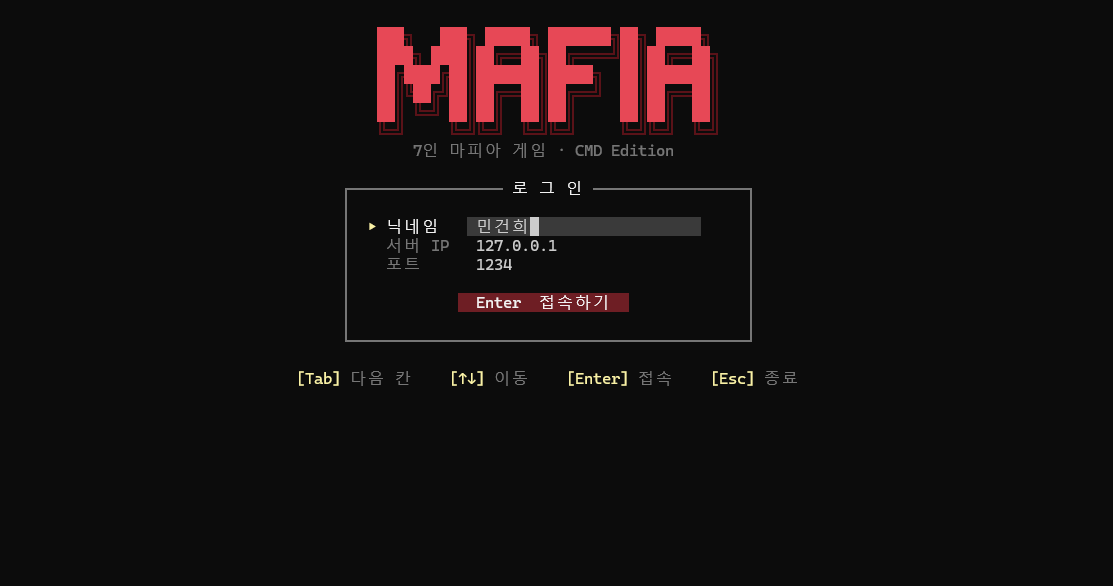
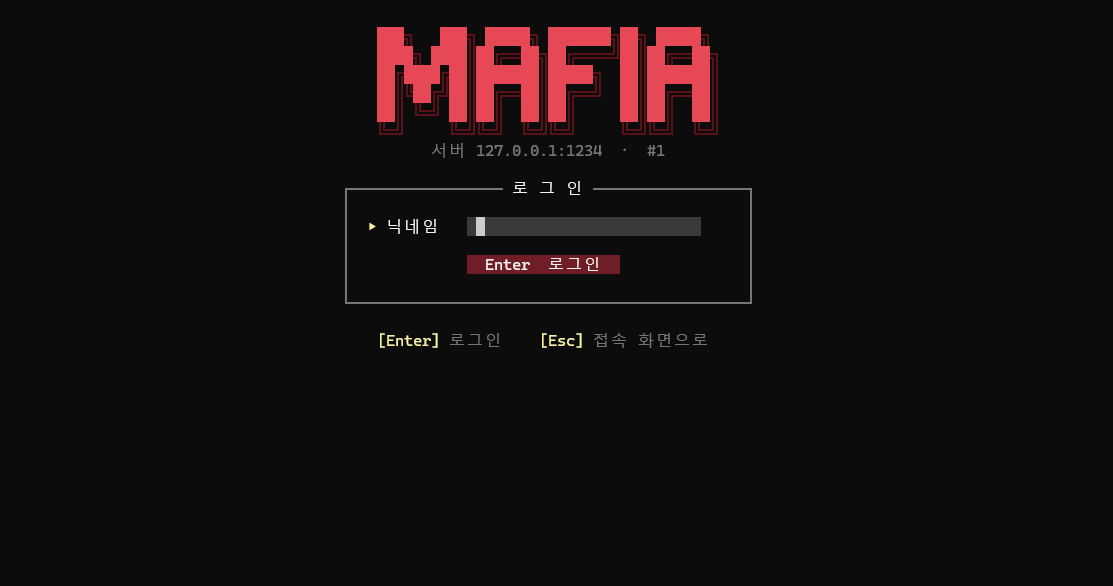
마피아 서버: 서버 접속 / 로그인 분리 화면, 로그인 실패, 접속 연출 캡처로 교체

diff --git a/index.html b/index.html
@@ -1310,7 +1310,7 @@ const PROJECTS = [
     "overview": [
       "Winsock TCP와 C++로 제작 중인 7인 CMD 마피아 게임 서버입니다. 먼저 만든 콘솔 채팅 서버를 확장해, 방(Room) 단위로 게임 상태를 관리하고 규칙 판정은 서버가 담당하는 구조로 설계하고 있습니다.",
       "채팅 서버에서 main 함수에 몰려 있던 코드를 Server / Client / Room / Game 클래스로 나누고, 소켓 관리와 패킷 처리는 별도 정적 라이브러리(NetLib)로 분리했습니다.",
-      "현재 NetLib, 서버 접속 처리와 관리 화면, 클라이언트 화면 흐름(인트로 → 로그인 → 로비)까지 구현했으며, 이후 직업 배정, 낮 / 밤 진행, 투표, 승리 조건 판정을 상태 머신으로 구현할 예정입니다."
+      "현재 NetLib 송수신 구조(접속자별 수신 스레드, 받기 / 보내기 분리, 고유 ID 할당), 클라이언트 흐름(인트로 → 서버 접속 → 로그인 → 로비)과 로그인 패킷 처리까지 구현했으며, 이후 직업 배정, 낮 / 밤 진행, 투표, 승리 조건 판정을 상태 머신으로 구현할 예정입니다."
     ],
     "tech": [
       {
@@ -1336,13 +1336,14 @@ const PROJECTS = [
         ]
       },
       {
-        "name": "이벤트 큐 기반 스레드 모델 (구현 중)",
-        "desc": "Accept와 수신 스레드는 받은 것을 이벤트 큐에 넣기만 하고, 접속자 목록과 게임 상태는 로직 스레드 하나에서만 수정하도록 설계했습니다.",
+        "name": "이벤트 큐 기반 스레드 모델",
+        "desc": "Accept 스레드와 접속자별 수신 스레드는 받은 것을 받기 큐에 넣기만 하고, 접속자 목록과 게임 상태는 로직 스레드 하나에서만 수정합니다. 보낼 패킷은 락 없는 보내기 목록에 모았다가 같은 프레임 끝에 전송합니다.",
         "media": "assets/server/mafia-flow.png",
         "notion": "https://conscious-sun-4a1.notion.site/3f92ae810b66818088fdc6fe6f4df4cf",
         "points": [
           "동기화가 필요한 지점을 이벤트 큐 하나로 제한",
-          "로직 스레드가 큐를 swap으로 한 번에 가져와 락 잡는 시간 최소화",
+          "받기는 Pre_Update, 보내기는 Late_Update에서 처리해 응답이 같은 프레임 안에 나감",
+          "접속 종료는 수신 스레드의 recv 실패 한 경로로만 처리 (로그 → 접속자 삭제 → 게임 알림)",
           "끊긴 클라이언트의 고유 ID는 재사용하지 않아 남은 이벤트가 엉뚱한 사람에게 처리되는 것을 방지"
         ]
       }
@@ -1350,19 +1351,37 @@ const PROJECTS = [
     "contents": [
       {
         "name": "클라이언트 인트로",
-        "desc": "로고 애니메이션 후 아무 키나 누르면 로그인 화면으로 넘어갑니다.",
+        "desc": "로고 애니메이션 후 아무 키나 누르면 서버 접속 화면으로 넘어갑니다.",
         "media": "assets/server/mafia-intro.png",
         "notion": "https://conscious-sun-4a1.notion.site/3f92ae810b66818088fdc6fe6f4df4cf"
       },
       {
+        "name": "서버 접속",
+        "desc": "서버 IP / 포트를 입력해 접속합니다. 기본값이 미리 채워져 있고, 실패하면 사유를 표시하고 다시 입력받습니다.",
+        "media": "assets/server/mafia-connect.png",
+        "notion": "https://conscious-sun-4a1.notion.site/3f92ae810b66818088fdc6fe6f4df4cf"
+      },
+      {
+        "name": "접속 연출",
+        "desc": "접속이 너무 빨라 화면이 깜빡 넘어가지 않도록 최소 1.5초 동안 진행 바를 보여줍니다.",
+        "media": "assets/server/mafia-connecting.png",
+        "notion": "https://conscious-sun-4a1.notion.site/3f92ae810b66818088fdc6fe6f4df4cf"
+      },
+      {
         "name": "로그인",
-        "desc": "닉네임 / 서버 IP / 포트를 입력하고 접속합니다. 접속에 실패하면 사유를 표시하고 다시 입력받습니다.",
+        "desc": "연결된 서버와 서버가 정해준 내 번호를 보여주고, 닉네임으로 로그인합니다.",
         "media": "assets/server/mafia-login.png",
         "notion": "https://conscious-sun-4a1.notion.site/3f92ae810b66818088fdc6fe6f4df4cf"
       },
       {
+        "name": "로그인 실패",
+        "desc": "서버가 닉네임을 검사해 보낸 실패 이유를 문구로 보여줍니다. 연결은 유지한 채 다시 입력받습니다.",
+        "media": "assets/server/mafia-login-failed.png",
+        "notion": "https://conscious-sun-4a1.notion.site/3f92ae810b66818088fdc6fe6f4df4cf"
+      },
+      {
         "name": "로비",
-        "desc": "방 목록을 ↑↓로 선택하고, 오른쪽에 접속 중인 사람을 표시합니다.",
+        "desc": "내 번호와 방 목록(↑↓ 선택), 접속 중인 사람을 표시합니다.",
         "media": "assets/server/mafia-lobby.png",
         "notion": "https://conscious-sun-4a1.notion.site/3f92ae810b66818088fdc6fe6f4df4cf"
       },
@@ -1374,7 +1393,7 @@ const PROJECTS = [
       },
       {
         "name": "서버 관리 화면",
-        "desc": "접속자 목록과 접속 / 거절 로그를 실시간으로 보여주고, F5로 접속 요청을 켜고 끕니다.",
+        "desc": "접속자 목록과 접속 / 거절 / 종료 로그를 실시간으로 보여주고, F5로 접속 요청을 켜고 끕니다.",
         "media": "assets/server/mafia-server-main.png",
         "notion": "https://conscious-sun-4a1.notion.site/3f92ae810b66818088fdc6fe6f4df4cf"
       }
